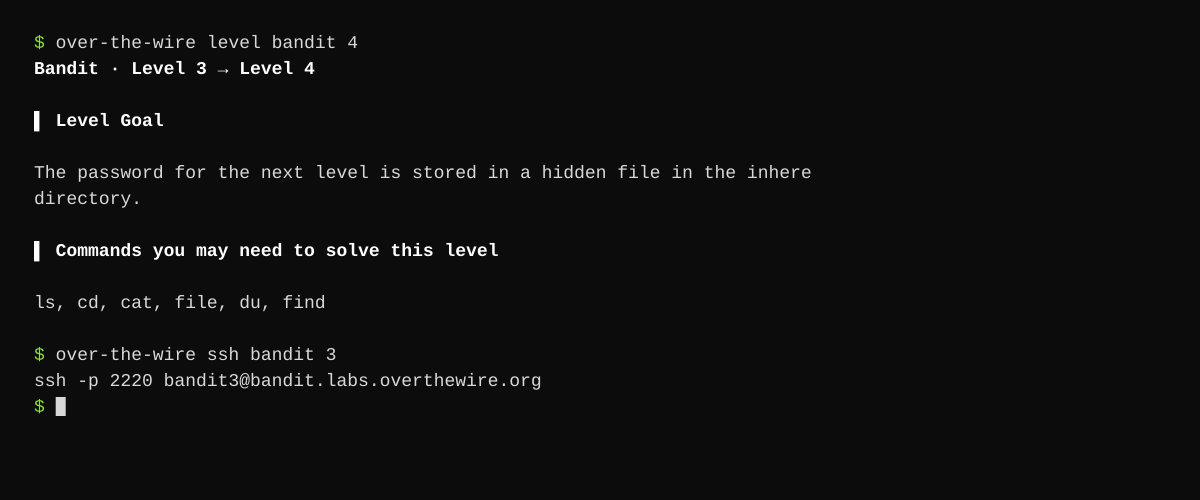
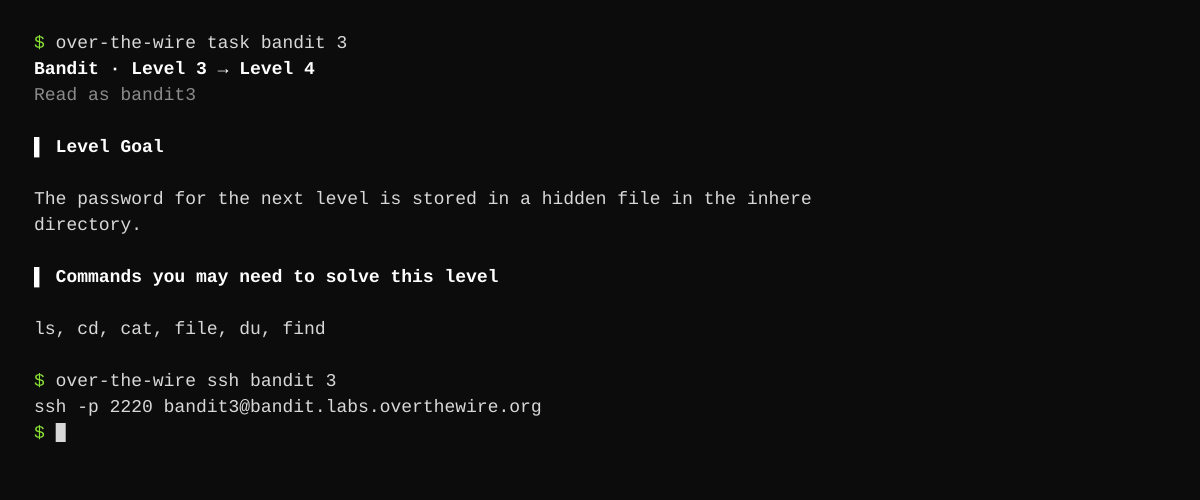
Add task command for current level

diff --git a/src/main.rs b/src/main.rs
@@ -76,13 +76,25 @@ enum Command {
         json: bool,
     },
 
-    /// Show the goal, commands and hints for one level
+    /// Show a website level page (goal, commands and hints)
     #[command(alias = "l")]
     Level {
         /// Game name, e.g. bandit
         game: String,
         /// Level page, e.g. 4
         level: String,
+        /// Print machine-readable JSON
+        #[arg(long)]
+        json: bool,
+    },
+
+    /// Show the task for the level you are logged in as
+    #[command(alias = "at")]
+    Task {
+        /// Game name, e.g. bandit
+        game: String,
+        /// Level you are logged in as (default: 0)
+        level: Option<String>,
         /// Print machine-readable JSON
         #[arg(long)]
         json: bool,
@@ -242,6 +254,11 @@ fn run(command: Command, cfg: &Cfg) -> Result<()> {
             let client = Client::new(cfg.offline, cfg.refresh)?;
             let games = games::load(&client)?;
             cmd_level(&client, &games, &game, &level, cfg, json)
+        }
+        Command::Task { game, level, json } => {
+            let client = Client::new(cfg.offline, cfg.refresh)?;
+            let games = games::load(&client)?;
+            cmd_task(&client, &games, &game, level.as_deref(), cfg, json)
         }
         Command::Ssh { game, level, run } => {
             let client = Client::new(cfg.offline, cfg.refresh)?;
@@ -555,6 +572,7 @@ struct LevelJson {
     page: u32,
     title: String,
     url: String,
+    read_as: Option<String>,
     ssh: Option<String>,
     web: Option<String>,
     sections: Vec<Section>,
@@ -572,6 +590,27 @@ fn cmd_level(
 ) -> Result<()> {
     let game = Game::find(games, name)?;
     let page_number = games::parse_level(game, level)?;
+    show_level(client, game, page_number, cfg, json)
+}
+
+fn cmd_task(
+    client: &Client,
+    games: &[Game],
+    name: &str,
+    level: Option<&str>,
+    cfg: &Cfg,
+    json: bool,
+) -> Result<()> {
+    let game = Game::find(games, name)?;
+    let login_level = match level {
+        Some(level) => games::parse_level(game, level)?,
+        None => 0,
+    };
+    let page_number = game.task_page(login_level)?;
+    show_level(client, game, page_number, cfg, json)
+}
+
+fn show_level(client: &Client, game: &Game, page_number: u32, cfg: &Cfg, json: bool) -> Result<()> {
     let raw = client
         .get(&game.level_path(page_number), PAGE_TTL)
         .with_context(|| format!("loading {} level {page_number}", game.name))?;
@@ -588,6 +627,7 @@ fn cmd_level(
             page: page_number,
             title,
             url: game.level_url(page_number),
+            read_as: game.read_as(page_number),
             ssh: game.ssh_command(login_level),
             web: game.web_url(page_number),
             sections: page.sections,
@@ -601,10 +641,17 @@ fn cmd_level(
         bail!("{} level {page_number} has no readable content", game.name);
     }
 
+    let read_as = game
+        .read_as(page_number)
+        .map(|user| format!("Read as {user}"))
+        .unwrap_or_else(|| "Starting point".to_string());
+
     let mut out = String::new();
     out.push_str(&cfg.style.paint(St::Accent, &game.name));
     out.push_str(&cfg.style.paint(St::Dim, " · "));
     out.push_str(&cfg.style.paint(St::Bold, &title));
+    out.push('\n');
+    out.push_str(&cfg.style.paint(St::Dim, &read_as));
     out.push_str("\n\n");
     out.push_str(&body);
     emit(&out);

diff --git a/src/games.rs b/src/games.rs
@@ -236,6 +236,32 @@ impl Game {
         }
     }
 
+    /// The account this page is meant to be read as, if there is one.
+    pub fn read_as(&self, page: u32) -> Option<String> {
+        if self.key == "natas" {
+            Some(format!("natas{page}"))
+        } else if self.special {
+            (page > 0).then(|| format!("{}{}", self.key, page))
+        } else {
+            Some(format!("{}{}", self.key, self.login_level(page)))
+        }
+    }
+
+    /// The page that describes the task for a level you are logged in as.
+    pub fn task_page(&self, login_level: u32) -> Result<u32> {
+        let last = self.require_levels()?;
+        if self.key == "natas" || self.special {
+            return Ok(login_level);
+        }
+        if login_level >= last {
+            bail!(
+                "{} has no task after level {last}; the game ends there",
+                self.name
+            );
+        }
+        Ok(login_level + 1)
+    }
+
     pub fn ssh_argv(&self, login_level: u32) -> Option<Vec<String>> {
         let host = self.host.as_ref()?;
         let port = self.port?;
@@ -373,5 +399,34 @@ mod tests {
         }
         assert!(parse_level(&bandit, "35").is_err());
         assert!(parse_level(&bandit, "nope").is_err());
+    }
+
+    #[test]
+    fn task_page_uses_the_current_login_level() {
+        let bandit = game("bandit", false, 34);
+        assert_eq!(bandit.task_page(0).unwrap(), 1);
+        assert_eq!(bandit.task_page(3).unwrap(), 4);
+        assert!(bandit.task_page(34).is_err());
+
+        let krypton = game("krypton", true, 6);
+        assert_eq!(krypton.task_page(0).unwrap(), 0);
+        assert_eq!(krypton.task_page(3).unwrap(), 3);
+
+        let natas = game("natas", false, 34);
+        assert_eq!(natas.task_page(3).unwrap(), 3);
+    }
+
+    #[test]
+    fn read_as_labels_pages() {
+        let bandit = game("bandit", false, 34);
+        assert_eq!(bandit.read_as(0).as_deref(), Some("bandit0"));
+        assert_eq!(bandit.read_as(4).as_deref(), Some("bandit3"));
+
+        let krypton = game("krypton", true, 6);
+        assert_eq!(krypton.read_as(0), None);
+        assert_eq!(krypton.read_as(3).as_deref(), Some("krypton3"));
+
+        let natas = game("natas", false, 34);
+        assert_eq!(natas.read_as(3).as_deref(), Some("natas3"));
     }
 }

diff --git a/README.md b/README.md
@@ -32,7 +32,8 @@ A Rust CLI for OverTheWire games
 | `over-the-wire games` | List games, level ranges and SSH servers. |
 | `over-the-wire info <game>` | Show a game's overview and beginner notes. |
 | `over-the-wire levels <game>` | List every level page of a game. |
-| `over-the-wire level <game> <n>` | Show the goal, commands and reading for one level. |
+| `over-the-wire level <game> <n>` | Show a website level page (goal, commands, reading). |
+| `over-the-wire task <game> [level]` | Show the task for the level you are logged in as. |
 | `over-the-wire ssh <game> [level]` | Print the SSH command for a level. |
 | `over-the-wire ssh <game> [level] --run` | Connect with SSH. |
 | `over-the-wire search <text>` | Search every level's notes. |
@@ -46,6 +47,10 @@ A Rust CLI for OverTheWire games
 Game names are case-insensitive. Levels accept `4`, `bandit4`, `level4` or `l4`.
 `ssh` with no level defaults to level 0. Natas is web-based, so
 `over-the-wire ssh natas 3` prints the level URL instead of an SSH command.
+
+`level` uses the website's page numbers. `task` uses the level you are logged in as,
+so `over-the-wire task bandit 3` shows page 4 — the task for bandit3. Krypton, Vortex
+and Natas use the same number for both.
 
 ### Options
 
@@ -61,6 +66,7 @@ Game names are case-insensitive. Levels accept `4`, `bandit4`, `level4` or `l4`.
 ```bash
 over-the-wire games
 over-the-wire info bandit
+over-the-wire task bandit 3
 over-the-wire level bandit 4
 over-the-wire ssh bandit 3
 over-the-wire ssh bandit 3 --run
